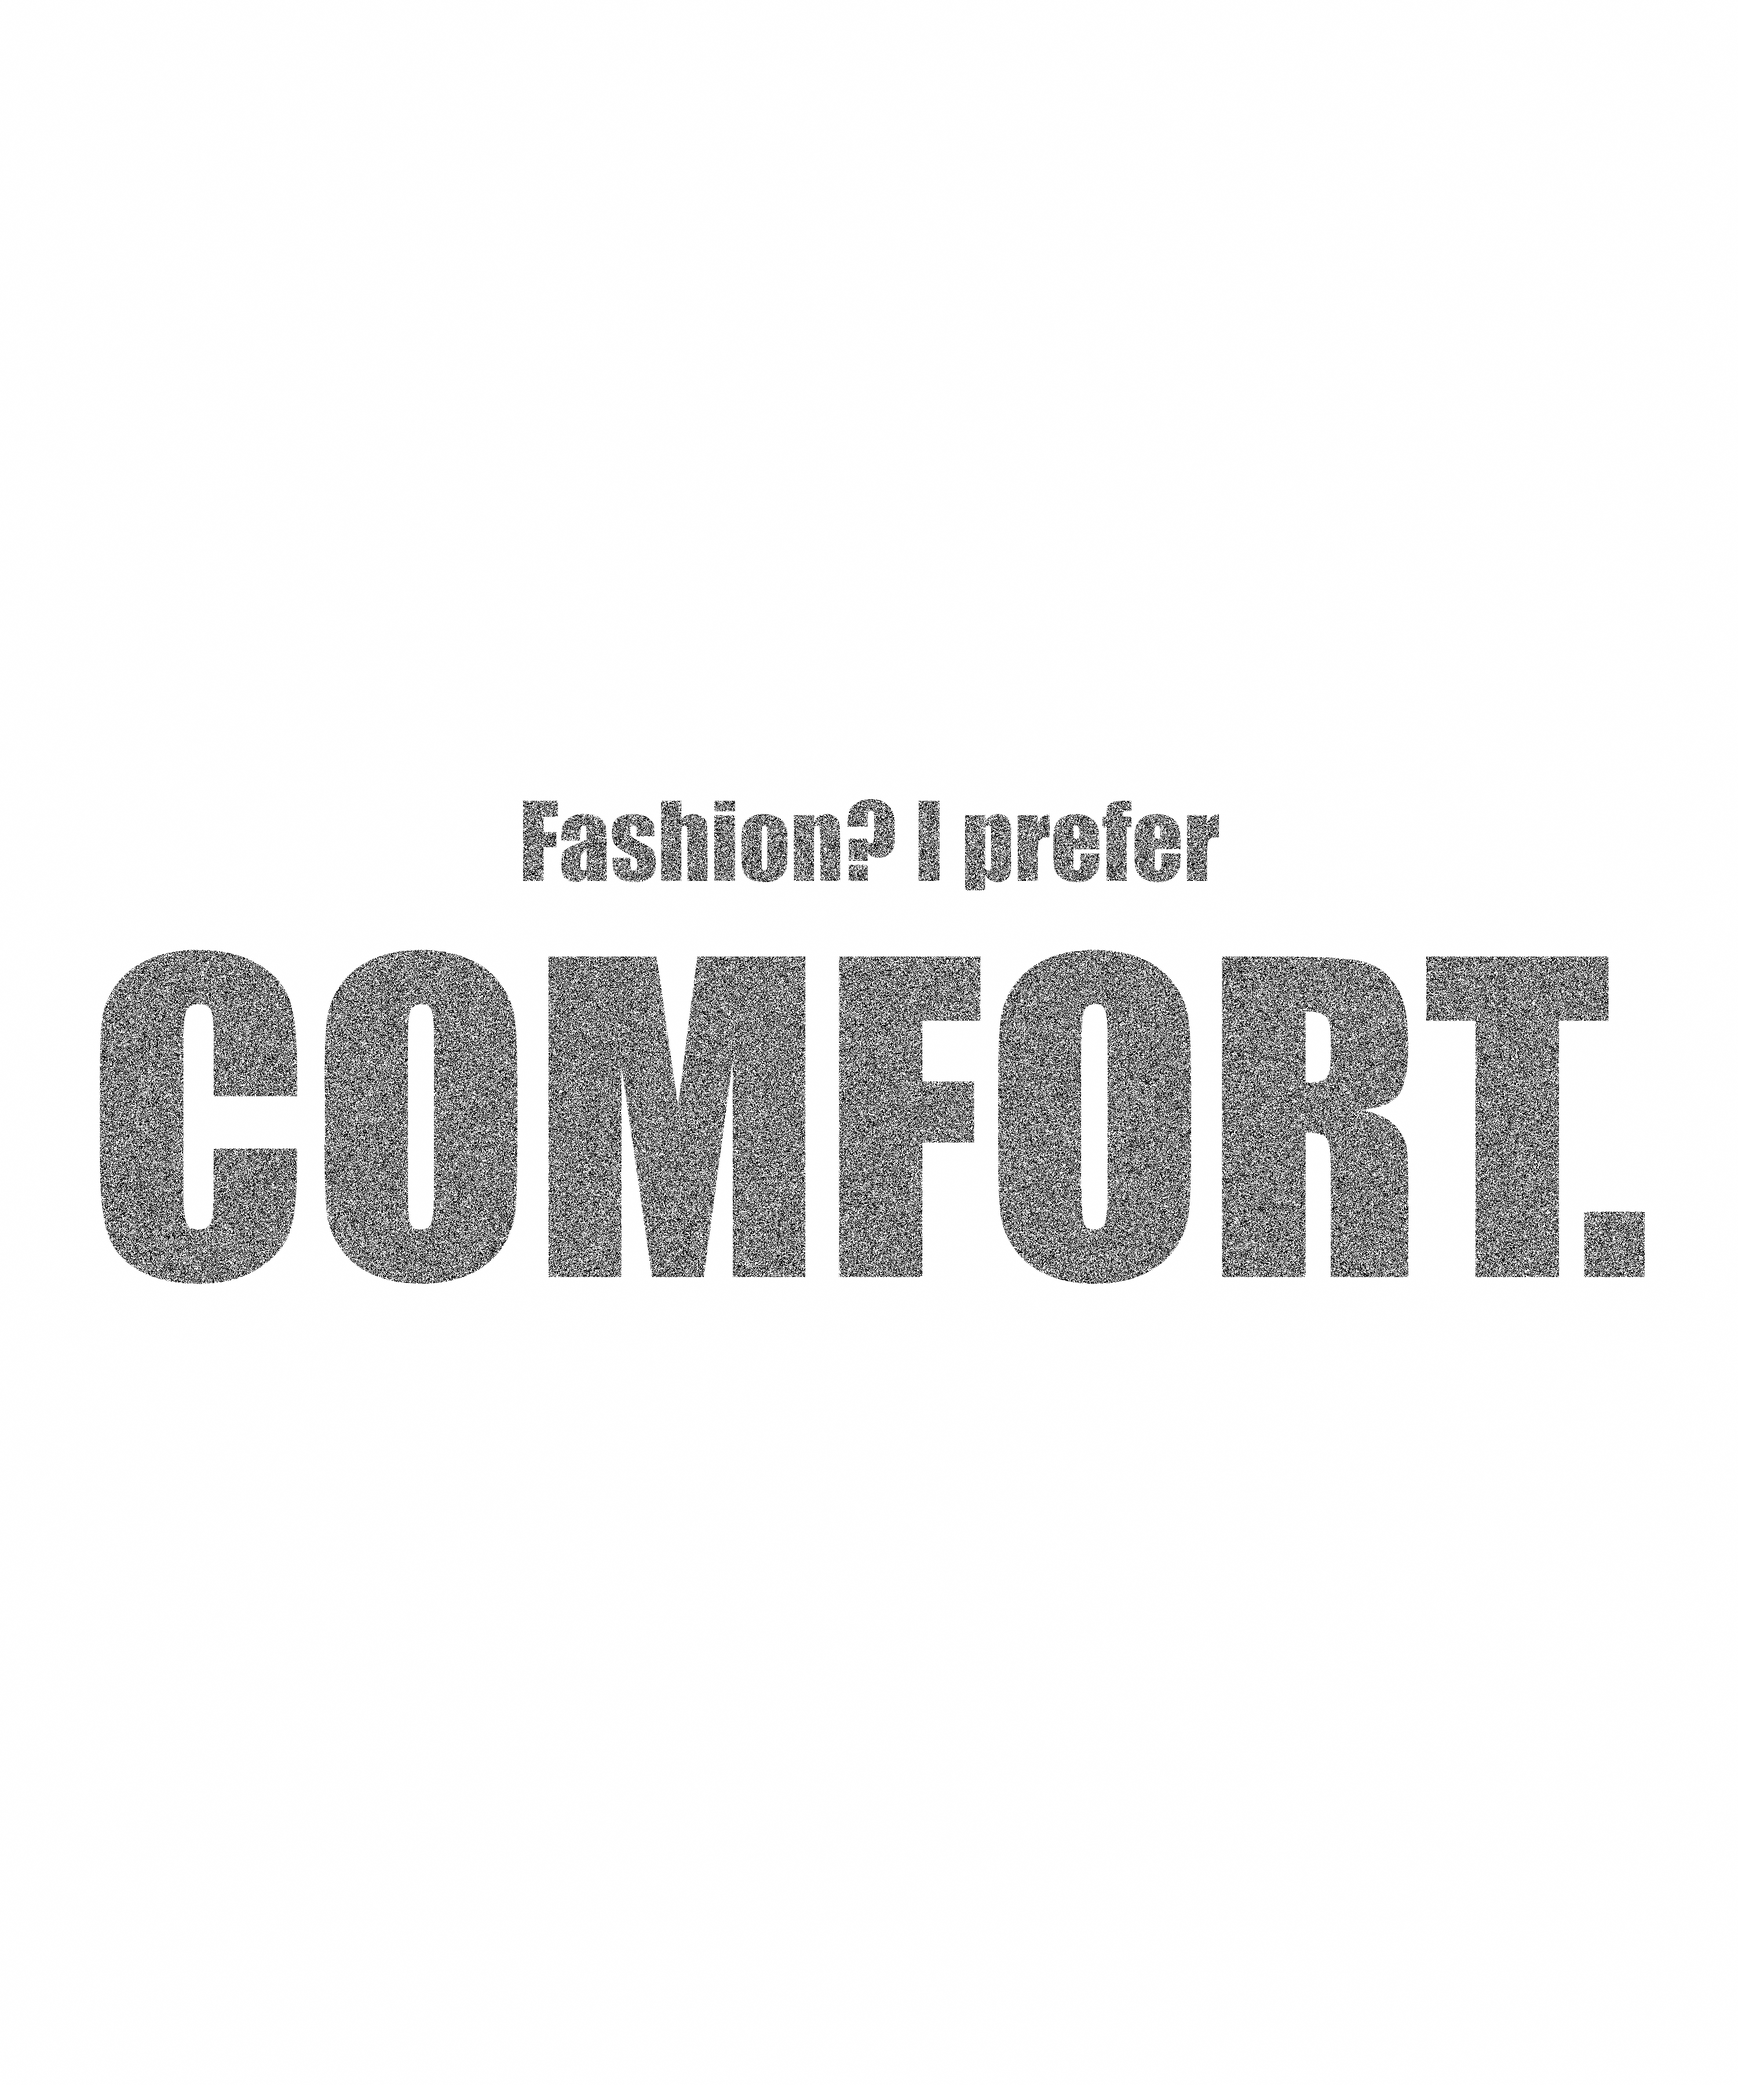
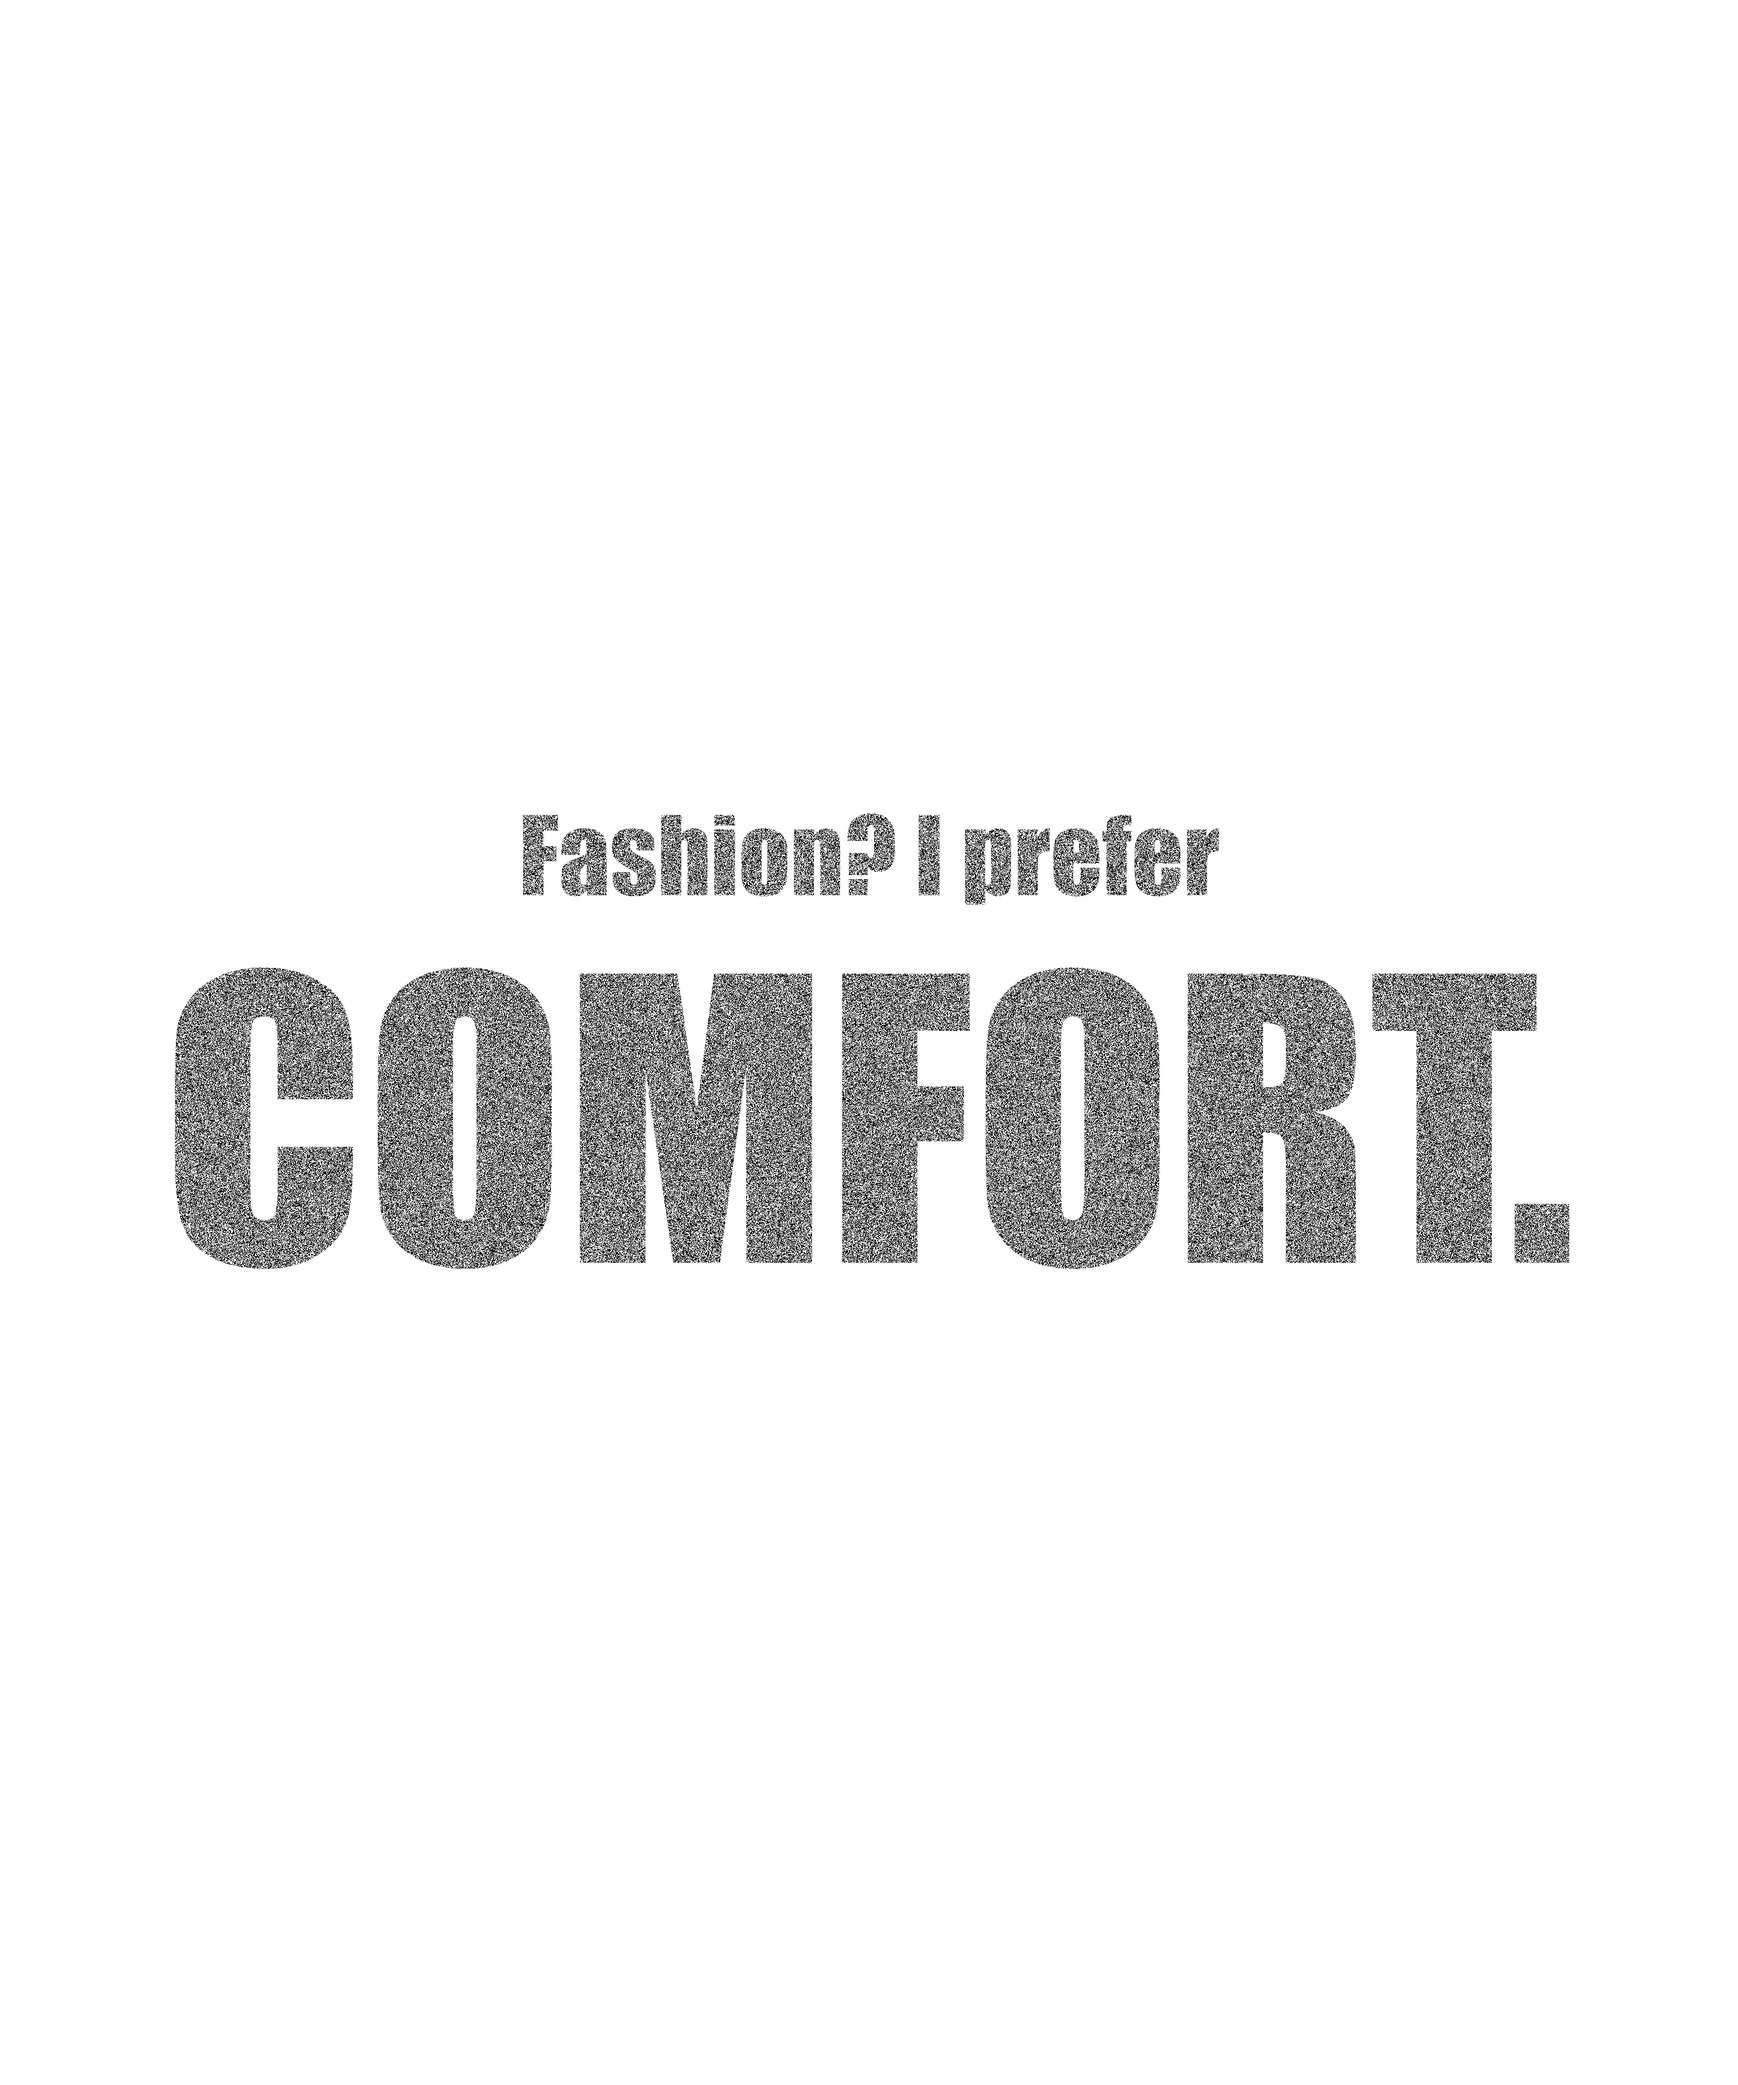
fix: auto-scale text to prevent overflow clipping
Long keywords like COMFORTABLE, EXISTENCE, EXHAUSTION exceeded the
3000px canvas width at fixed BIG_SIZE=700, clipping characters on
both sides (e.g. product-18 rendered as ')MFORTAB' instead of
'COMFORTABLE').

Added fitFontSize() helper that iteratively shrinks the font by 5%
until the widest line fits within SAFE_WIDTH. Applied to big keyword
(85% of canvas width) and small/after lines (90% of canvas width)
for both top-bottom and big-top layouts.

Regenerated all 38 design PNGs.

diff --git a/scripts/generate-designs.js b/scripts/generate-designs.js
@@ -134,6 +134,24 @@ function measureMaxWidth(ctx, text) {
   return Math.max(...text.split('\n').map(l => ctx.measureText(l).width));
 }
 
+/**
+ * Iteratively shrink fontSize until the widest line fits maxWidth.
+ * Fixes overflow clipping for long keywords like UNCOMFORTABLE / EXISTENCE.
+ * Returns the largest fontSize that fits, or minSize if even that overflows.
+ */
+function fitFontSize(ctx, text, startSize, maxWidth, shrinkRatio = 0.95, minSize = 40) {
+  if (!text) return startSize;
+  let size = startSize;
+  setFont(ctx, size);
+  let width = measureMaxWidth(ctx, text);
+  while (width > maxWidth && size > minSize) {
+    size = size * shrinkRatio;
+    setFont(ctx, size);
+    width = measureMaxWidth(ctx, text);
+  }
+  return size;
+}
+
 // ---------------------------------------------------------------------------
 // Back design generator  (3000 × 3600 px)
 // ---------------------------------------------------------------------------
@@ -185,15 +203,22 @@ function generateBack(product, color, outPath) {
   // saw on "NAPPING IS MY / CARDIO".
   const centerX = BACK_W / 2;
 
+  // Auto-fit safe widths: big keyword may use up to 85% of canvas width;
+  // small/after lines may use up to 90%. Anything wider gets shrunk so long
+  // keywords (UNCOMFORTABLE, EXISTENCE, EXHAUSTION) never clip the edges.
+  const SAFE_W_BIG   = BACK_W * 0.85;
+  const SAFE_W_SMALL = BACK_W * 0.90;
+
   // ---- 1) Build the ordered list of blocks for this layout ----
+  //     Each block's size is auto-shrunk if its widest line overflows.
   const blocks = [];
   if (product.layout === 'top-bottom') {
-    if (product.small) blocks.push({ text: product.small, size: SMALL_SIZE });
-    if (product.big)   blocks.push({ text: product.big,   size: BIG_SIZE   });
-    if (product.after) blocks.push({ text: product.after, size: AFTER_SIZE });
+    if (product.small) blocks.push({ text: product.small, size: fitFontSize(ctx, product.small, SMALL_SIZE, SAFE_W_SMALL) });
+    if (product.big)   blocks.push({ text: product.big,   size: fitFontSize(ctx, product.big,   BIG_SIZE,   SAFE_W_BIG)   });
+    if (product.after) blocks.push({ text: product.after, size: fitFontSize(ctx, product.after, AFTER_SIZE, SAFE_W_SMALL) });
   } else if (product.layout === 'big-top') {
-    if (product.big)   blocks.push({ text: product.big,   size: BIG_SIZE   });
-    if (product.after) blocks.push({ text: product.after, size: AFTER_SIZE });
+    if (product.big)   blocks.push({ text: product.big,   size: fitFontSize(ctx, product.big,   BIG_SIZE,   SAFE_W_BIG)   });
+    if (product.after) blocks.push({ text: product.after, size: fitFontSize(ctx, product.after, AFTER_SIZE, SAFE_W_SMALL) });
   }
 
   // ---- 2) Flatten multi-line blocks into individual visual lines ----
